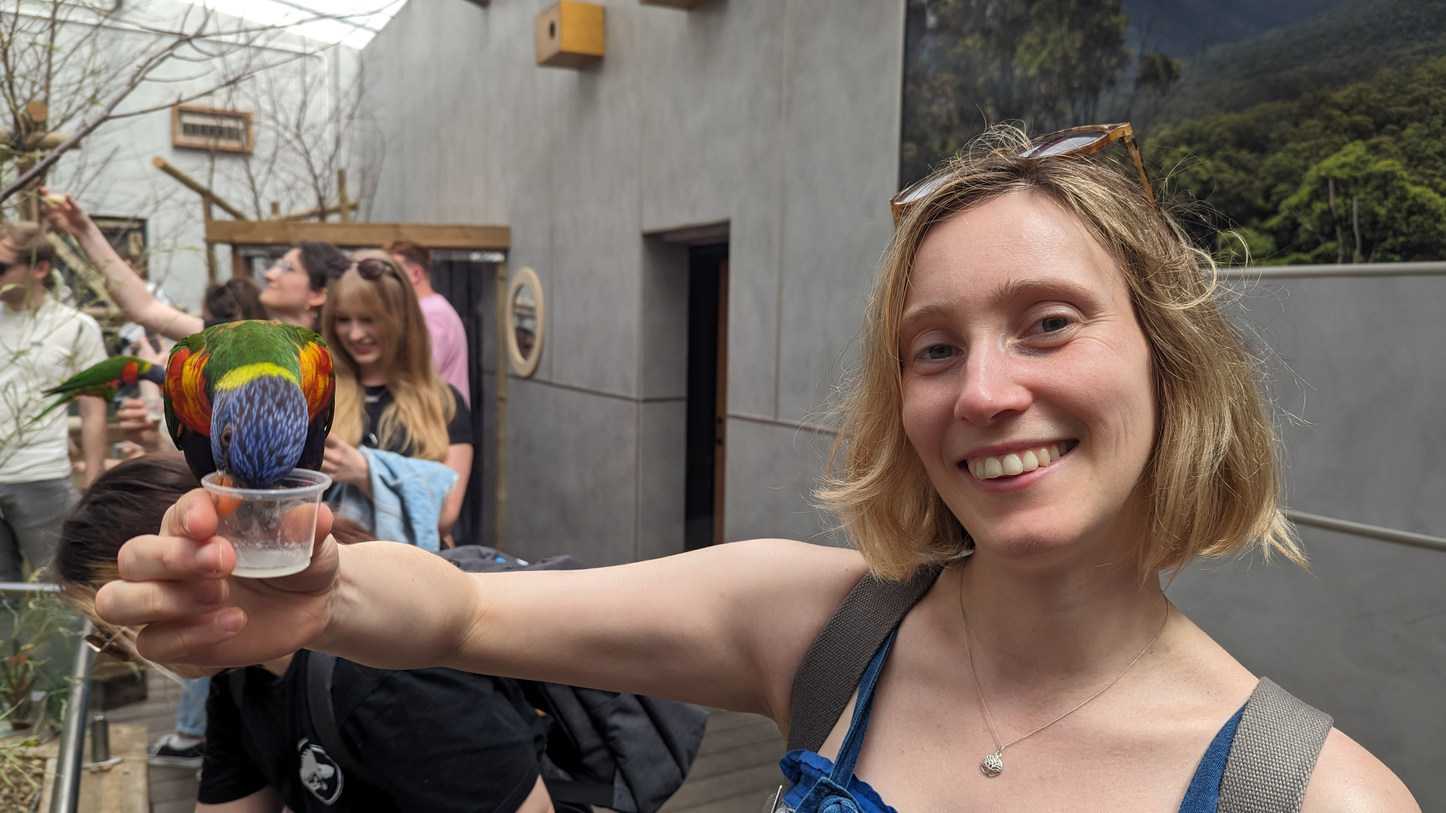
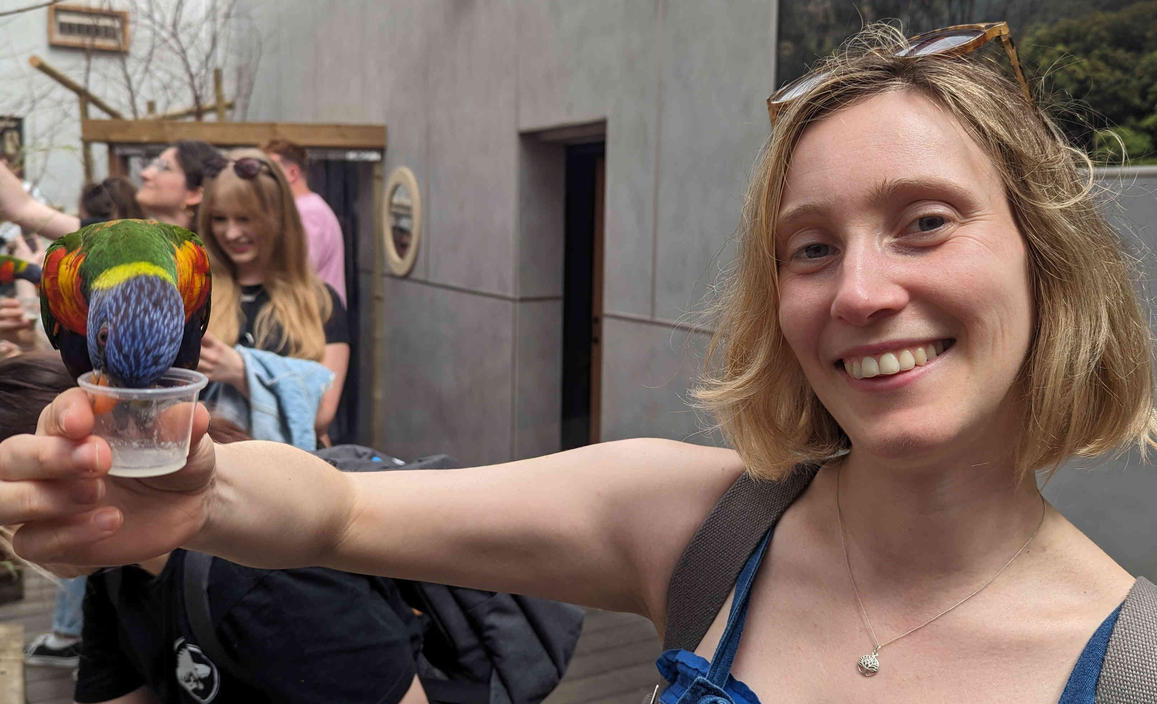
Making images smaller so they load faster, updating content.

diff --git a/index.html b/index.html
@@ -21,87 +21,149 @@
     
     let contentText = `
[81 lines of base64/hex data omitted]
-vnJx81k=
[142 lines of base64/hex data omitted]
+vEZ2YcLK4LIyMyU=
     `;
 
     function insertEvery(str, value, nChars) {
@@ -216,10 +278,10 @@ vnJx81k=
       <div id='photo11' class="polaroid" ><div class='polaroidImage' style='background-image:url(images/20230620_195615.jpg);background-position: 50% 50%;' ></div></div>
       <div id='photo12' class="polaroid" ><div class='polaroidImage' style='background-image:url(images/20221023_153542.jpg);background-position: 50% 50%;' ></div></div>
       <div id='photo13' class="polaroid" ><div class='polaroidImage' style='background-image:url(images/20230619_112548.jpg);background-position: 50% 50%;' ></div></div>
-      <div id='photo14' class="polaroid" ><div class='polaroidImage' style='background-image:url(images/PXL_20240711_124517070.jpg);background-position: 50% 50%;' ></div></div>
+      <div id='photo14' class="polaroid" ><div class='polaroidImage' style='background-image:url(images/PXL_20240711_124517070.jpg);background-position: 0% 50%;' ></div></div>
       <div id='photo15' class="polaroid" ><div class='polaroidImage' style='background-image:url(images/PXL_20240712_051523311.jpg);background-position: 50% 50%;' ></div></div>
       <div id='photo16' class="polaroid" ><div class='polaroidImage' style='background-image:url(images/PXL_20240511_115149538.jpg);background-position: 50% 50%;' ></div></div>
-      <div id='photo17' class="polaroid" ><div class='polaroidImage' style='background-image:url(images/PXL_20240613_100115969.jpg);background-position: 50% 50%;' ></div></div>
+      <div id='photo17' class="polaroid" ><div class='polaroidImage' style='background-image:url(images/PXL_20240613_100115969.jpg);background-position: 100% 50%;' ></div></div>
       <div id='photo18' class="polaroid" ><div class='polaroidImage' style='background-image:url(images/PXL_20240714_045737237.jpg);background-position: 50% 50%;' ></div></div>
       <div id='photo19' class="polaroid" ><div class='polaroidImage' style='background-image:url(images/PXL_20240818_130441568.jpg);background-position: 50% 50%;'></div></div>
       <div id='photo20' class="polaroid" ><div class='polaroidImage' style='background-image:url(images/212341_aa046eb3.jpg);background-position: 50% 50%;'></div></div>
@@ -227,7 +289,7 @@ vnJx81k=
       <div id='photo22' class="polaroid" ><div class='polaroidImage' style='background-image:url(images/212445_a2101a82.jpg);background-position: 30% 50%;'></div></div>
       <div id='photo23' class="polaroid" ><div class='polaroidImage' style='background-image:url(images/212757_2378f61e.jpg);background-position: 20% 50%;'></div></div>
       <div id='photo24' class="polaroid" ><div class='polaroidImage' style='background-image:url(images/212916_4f33697d.jpg);background-position: 50% 50%;'></div></div>
-      <div id='photo25' class="polaroid" ><div class='polaroidImage' style='background-image:url(images/213046_8aa38da1.jpg);background-position: 50% 50%;'></div></div>
+      <div id='photo25' class="polaroid" ><div class='polaroidImage' style='background-image:url(images/213046_8aa38da1.jpg);background-position: 100% 0%;'></div></div>
       <div id='photo26' class="polaroid" ><div class='polaroidImage' style='background-image:url(images/213046_b5ee126a.jpg);background-position: 50% 50%;'></div></div>
     </div>
 

diff --git a/styles/index.css b/styles/index.css
@@ -55,13 +55,6 @@ body
   padding         : 25px 20vw;
 }
 
-.accomodationLinkBox 
-{
-  display         : flex;
-  margin-left     : 10px;
-  margin-top      : 10px;
-}
-
 #content
 {
   position: relative;
@@ -131,6 +124,31 @@ button:hover,.button:hover {
   filter              : var(--textColor-filter);
 }
 
+/* Location box */
+.locationBox {
+  position      : relative;
+}
+
+.directionsMap {
+  z-index       : 1;
+  position      : absolute;
+  box-shadow    : 0 3px 10px rgba(0,0,0,0.5);
+  align-self    : center;
+  top           : calc(-40vw - 10px);
+  width         : 40vw;
+  height        : 40vw;
+  border        : 3px solid white;
+  border-radius : 10px;
+}
+
+.locationBox .directionsMap {
+  display         : none;
+}
+
+.locationBox:hover .directionsMap {
+  display         : block;
+}
+
 /* ---------------------  CONFETTI  --------------------- */
 #confettiContainer
 {
@@ -189,7 +207,7 @@ button:hover,.button:hover {
   background      : #fff;
   padding         : 3px;
   padding-bottom  : 20px;
-  box-shadow      : 0 3px 10px rgba(0,0,0,0.3);
+  box-shadow      : 0 3px 10px rgba(0,0,0,0.2);
   width           : 110px;
   height          : 125px;
 }
@@ -427,14 +445,12 @@ button:hover,.button:hover {
   top             : 0px;
   right           : 0px;
   bottom          : 0px;
-  background-color: rgba(0, 0, 0, 0.5);
+  background-color: rgba(0, 0, 0, 0.75);
   backdrop-filter : blur(4px);
   display         : flex;
   flex-direction  : column;
   align-items     : center;
   justify-content : center;
-
-  /*display         : none; /* TODO: remove this */
 }
 
 #decryptionDialogBox
